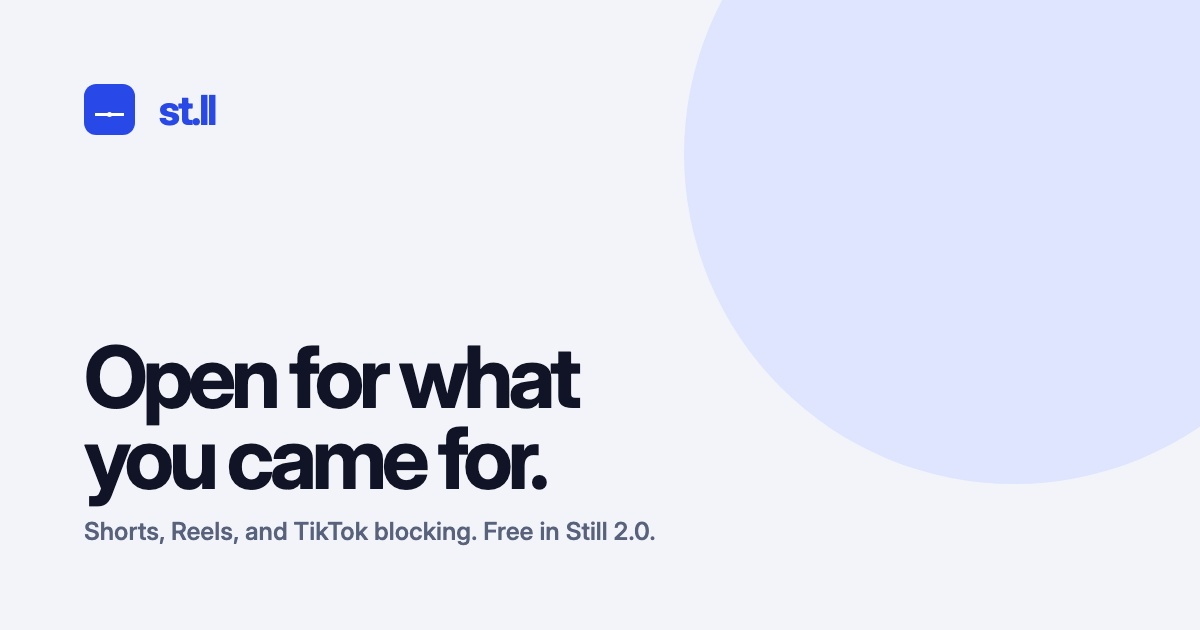
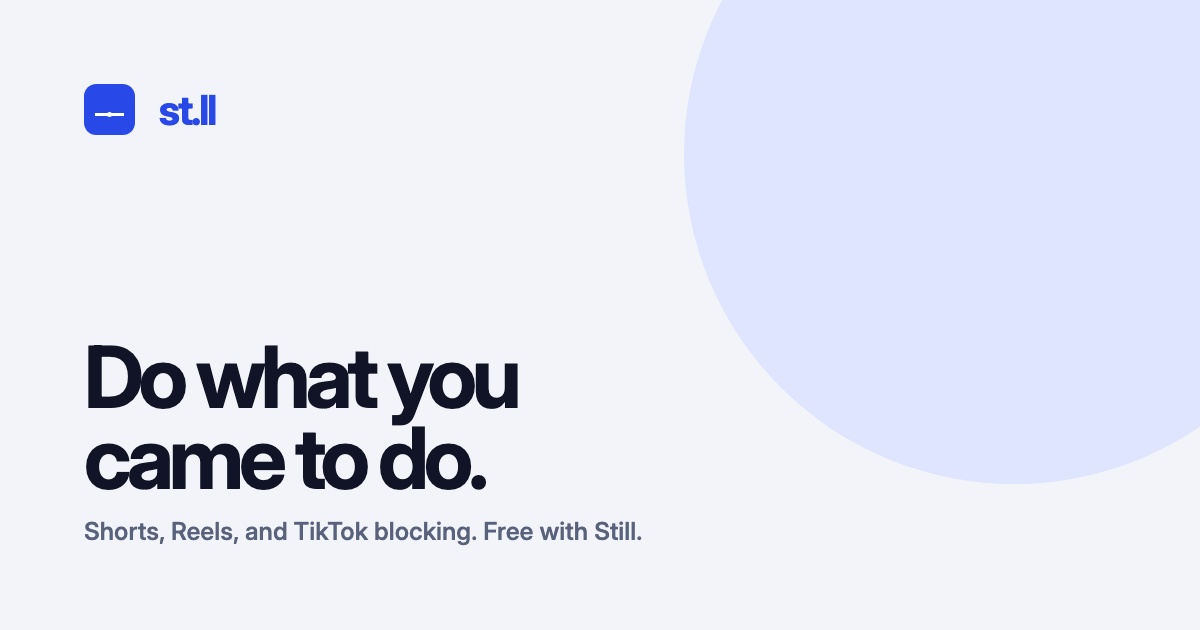
docs: simplify website branding and tighten section layout

Changed region(s): [[0.0617, 0.5429, 0.4933, 0.8143], [0.4317, 0.8143, 0.555, 0.8746]]

diff --git a/docs/assets/marketing.css b/docs/assets/marketing.css
@@ -46,7 +46,7 @@ a:focus-visible { outline: 3px solid #8fa1ff; outline-offset: 4px; }
 nav { display: flex; gap: 28px; }
 nav a { text-decoration: none; color: #464e68; font-size: 14px; font-weight: 580; }
 
-.hero { min-height: 690px; padding: 72px 0 96px; display: grid; grid-template-columns: 0.92fr 1.08fr; gap: 70px; align-items: center; }
+.hero { min-height: 560px; padding: 48px 0 56px; display: grid; grid-template-columns: 0.92fr 1.08fr; gap: 70px; align-items: center; }
 .eyebrow { margin: 0 0 14px; color: var(--blue); font-size: 13px; font-weight: 760; letter-spacing: .11em; text-transform: uppercase; }
 h1, h2, h3, p { text-wrap: pretty; }
 h1 { margin: 0; font-size: clamp(54px, 6vw, 84px); line-height: .98; letter-spacing: -.065em; font-weight: 730; }
@@ -70,14 +70,15 @@ h2 { max-width: 790px; margin: 0; font-size: clamp(38px, 4vw, 58px); line-height
 .sound-toggle:not(.is-muted) .icon-muted { display: none; }
 .sound-toggle:not(.is-muted) .icon-unmuted { display: block; }
 
-.outcome-section, .pricing-section, .compatibility-section { padding: 110px 0; }
+.outcome-section, .pricing-section, .compatibility-section { padding: 64px 0; }
+.outcome-section > h2 { max-width: none; }
 .outcome-grid { margin-top: 58px; display: grid; grid-template-columns: repeat(3, 1fr); gap: 18px; }
 .outcome-grid article { min-height: 240px; padding: 28px; border: 1px solid var(--line); border-radius: 18px; background: white; }
 .outcome-grid article > span { color: var(--blue); font-size: 12px; font-weight: 750; letter-spacing: .09em; }
 .outcome-grid h3 { margin: 62px 0 9px; font-size: 21px; letter-spacing: -.025em; }
 .outcome-grid p { margin: 0; color: var(--muted); }
 
-.split-section { padding: 112px max(32px, calc((100% - 1160px) / 2)); display: grid; grid-template-columns: 1fr 1fr; gap: 90px; align-items: start; background: #11172b; color: white; }
+.split-section { padding: 64px max(32px, calc((100% - 1160px) / 2)); display: grid; grid-template-columns: 1fr 1fr; gap: 90px; align-items: start; background: #11172b; color: white; }
 .split-section h2 { font-size: clamp(40px, 4vw, 60px); }
 .split-section > div > p:not(.eyebrow) { color: #c0c6d8; font-size: 18px; line-height: 1.7; }
 .service-list { margin: 0; padding: 0; list-style: none; border-top: 1px solid #30374f; }
@@ -112,7 +113,8 @@ h2 { max-width: 790px; margin: 0; font-size: clamp(38px, 4vw, 58px); line-height
 .scope-notice { grid-column: 1 / -1; padding: 22px 26px; border-left: 4px solid var(--blue); background: var(--soft-blue); }
 .scope-notice p { margin: 5px 0 0; color: #4e5875; }
 
-.get-still-section { padding: 110px 0; text-align: center; }
+.get-still-section { padding: 64px 0; text-align: center; }
+.get-still-section > h2 { margin-inline: auto; }
 .get-still-lede { max-width: 640px; margin: 18px auto 40px; color: var(--muted); font-size: 18px; line-height: 1.6; }
 .store-grid { display: grid; grid-template-columns: repeat(3, minmax(0, 1fr)); gap: 16px; max-width: 760px; margin: 0 auto; }
 .store-btn { display: flex; flex-direction: column; align-items: center; justify-content: center; gap: 6px; min-height: 104px; padding: 22px; border: 1px solid var(--line); border-radius: 16px; background: white; text-decoration: none; color: var(--ink); transition: transform .18s ease, box-shadow .18s ease, border-color .18s ease; }
@@ -125,7 +127,7 @@ h2 { max-width: 790px; margin: 0; font-size: clamp(38px, 4vw, 58px); line-height
 .privacy-section .eyebrow { color: #cad2ff; }
 .privacy-section > div > p:not(.eyebrow) { color: #eef0ff; }
 .text-link { color: white; font-weight: 680; }
-.final-cta { padding: 140px 0; text-align: center; }
+.final-cta { padding: 72px 0; text-align: center; }
 .final-cta h2, .final-cta > p { margin-inline: auto; }
 .final-cta > p:not(.eyebrow) { margin-bottom: 30px; color: var(--muted); font-size: 18px; }
 footer { min-height: 100px; padding: 28px max(20px, calc((100% - 1160px) / 2)); display: flex; align-items: center; justify-content: space-between; gap: 24px; border-top: 1px solid var(--line); color: var(--muted); font-size: 13px; }
@@ -133,10 +135,10 @@ footer div { display: flex; flex-wrap: wrap; gap: 22px; }
 
 @media (max-width: 820px) {
   nav { display: none; }
-  .hero { grid-template-columns: 1fr; padding-top: 54px; gap: 54px; }
+  .hero { grid-template-columns: 1fr; padding-top: 40px; gap: 54px; }
   .hero-media { transform: none; }
   .outcome-grid, .pricing-grid, .compatibility-section, .split-section { grid-template-columns: 1fr; }
-  .split-section { padding: 90px 24px; gap: 54px; }
+  .split-section { padding: 48px 24px; gap: 54px; }
   .compatibility-section { gap: 40px; }
   .compat-row { grid-template-columns: 1fr auto; }
   .compat-row span { grid-row: 2; }
@@ -147,10 +149,10 @@ footer div { display: flex; flex-wrap: wrap; gap: 22px; }
 @media (max-width: 520px) {
   .section-shell, .site-header { width: min(100% - 28px, 1160px); }
   h1 { font-size: 52px; }
-  .hero { min-height: 0; padding-bottom: 70px; }
+  .hero { min-height: 0; padding-bottom: 44px; }
   .hero-actions, .hero-actions .button { width: 100%; }
   .store-grid { grid-template-columns: 1fr; }
-  .outcome-section, .pricing-section, .compatibility-section { padding: 80px 0; }
+  .outcome-section, .pricing-section, .compatibility-section { padding: 48px 0; }
   .outcome-grid { grid-template-columns: 1fr; }
   .pricing-grid { grid-template-columns: 1fr; }
 }

diff --git a/docs/index.html b/docs/index.html
@@ -4,10 +4,10 @@
   <meta charset="utf-8">
   <meta name="viewport" content="width=device-width, initial-scale=1">
   <title>Still — Block Shorts &amp; Reels in Safari, Chrome &amp; Firefox</title>
-  <meta name="description" content="Still 2.0 is free on desktop Firefox: remove Shorts and Reels, block the TikTok website, and optionally sync settings. Apple and Chrome updates are pending.">
+  <meta name="description" content="Remove Shorts and Reels, block the TikTok website, and optionally sync settings with Still across Safari, Chrome, and Firefox. The free update is rolling out across stores.">
   <meta name="theme-color" content="#2948e8">
-  <meta property="og:title" content="Still — Open for what you came for">
-  <meta property="og:description" content="Still 2.0 is available for desktop Firefox with free blocking and optional settings sync. Apple and Chrome updates are pending.">
+  <meta property="og:title" content="Still — Do what you came to do">
+  <meta property="og:description" content="Free blocking and optional settings sync across Safari, Chrome, and Firefox. Still’s free update is rolling out across stores.">
   <meta property="og:type" content="website">
   <meta property="og:url" content="https://stillapp.fit/">
   <meta property="og:image" content="https://stillapp.fit/release/screenshots/v2/web/still-open-graph-v2-1200x630.jpg">
@@ -53,7 +53,7 @@
           <a class="button button-secondary" href="https://addons.mozilla.org/en-US/firefox/addon/still-free-yourself/">Firefox</a>
         </div>
         <p class="price-line">Still is free to use. Sign in to sync your blocking settings across Safari, Chrome, and Firefox on desktop and iOS.</p>
-        <p class="price-line"><strong>Firefox 2.0 is available.</strong> Apple and Chrome 2.0 are awaiting store approval; their links currently offer the earlier release. On iOS, Still works in Safari.</p>
+        <p class="price-line">The free update is rolling out across stores. Some listings may still show an earlier release. On iOS, Still works in Safari.</p>
       </div>
 
       <figure class="hero-media">
@@ -87,8 +87,8 @@
     </section>
 
     <section id="included" class="pricing-section section-shell" aria-labelledby="included-title">
-      <p class="eyebrow">Included in Still 2.0</p>
-      <h2 id="included-title">All the blocking. None of the price.</h2>
+      <p class="eyebrow">Included in Still</p>
+      <h2 id="included-title">All of the blocking. None of the cost</h2>
       <div class="pricing-grid">
         <article class="price-card">
           <p class="plan-name">Free blocking</p>
@@ -107,7 +107,7 @@
 
     <section id="where-it-works" class="compatibility-section section-shell" aria-labelledby="compatibility-title">
       <div class="compatibility-heading">
-        <p class="eyebrow">Still 2.0: free on every supported surface.</p>
+        <p class="eyebrow">Still: free on every supported surface.</p>
         <h2 id="compatibility-title">Your quieter web follows you.</h2>
         <p>Use Still without an account. If you want your settings to follow you, sign in with the same email on your supported browsers and devices. Sync is free too.</p>
       </div>
@@ -126,20 +126,20 @@
     <section id="get-still" class="get-still-section section-shell" aria-labelledby="get-still-title">
       <p class="eyebrow">Get Still</p>
       <h2 id="get-still-title">Add Still to the browser you use.</h2>
-      <p id="release-status" class="store-note"><strong>Firefox 2.0 is available.</strong> The Apple and Chrome updates are still awaiting store release. Their links may offer an earlier version; the free blocking and sync described here apply to 2.0.</p>
-      <p class="get-still-lede">Still 2.0 removes YouTube Shorts, Instagram and Facebook Reels, and blocks the TikTok website. All included, with no purchase needed.</p>
+      <p id="release-status" class="store-note">Still supports Safari, Chrome, and Firefox. The free update is rolling out across stores; some listings may still show an earlier release.</p>
+      <p class="get-still-lede">Still removes YouTube Shorts, Instagram and Facebook Reels, and blocks the TikTok website. All included, with no purchase needed.</p>
       <div class="store-grid">
         <a class="store-btn" href="https://apps.apple.com/app/id6784061138">
           <span class="store-name">App Store</span>
-          <span class="store-surface">iPhone, iPad &amp; Mac — Safari · 2.0 pending</span>
+          <span class="store-surface">iPhone, iPad &amp; Mac — Safari</span>
         </a>
         <a class="store-btn" href="https://chromewebstore.google.com/detail/still-block-shorts-reels/midpefhbieafmeboompbboemeahjjnkf">
           <span class="store-name">Chrome</span>
-          <span class="store-surface">Desktop · 2.0 pending</span>
+          <span class="store-surface">Desktop</span>
         </a>
         <a class="store-btn" href="https://addons.mozilla.org/en-US/firefox/addon/still-free-yourself/">
           <span class="store-name">Firefox</span>
-          <span class="store-surface">Desktop · 2.0 available</span>
+          <span class="store-surface">Desktop</span>
         </a>
       </div>
       <p class="store-note">No purchase or account needed for blocking. Sign-in is optional and enables free settings sync.</p>

diff --git a/docs/short-form-video-blocker.html b/docs/short-form-video-blocker.html
@@ -4,7 +4,7 @@
   <meta charset="utf-8">
   <meta name="viewport" content="width=device-width, initial-scale=1">
   <title>A Short-Form Video Blocker for Safari, Chrome &amp; Firefox | Still</title>
-  <meta name="description" content="Still 2.0 is free on desktop Firefox: remove Shorts and Reels and block the TikTok website. Optional free sync. Apple and Chrome updates are pending.">
+  <meta name="description" content="Remove Shorts and Reels and block the TikTok website with Still for Safari, Chrome, and Firefox. Free blocking and optional free sync are rolling out across stores.">
   <meta name="theme-color" content="#2948e8">
   <link rel="canonical" href="https://stillapp.fit/short-form-video-blocker.html">
   <link rel="stylesheet" href="./assets/legal.css">
@@ -12,7 +12,7 @@
 <body>
   <p><a href="./guides.html">← All Still guides</a></p>
   <h1>A short-form video blocker for Safari, Chrome, and Firefox</h1>
-  <p class="lede"><strong>Still 2.0 is available for desktop Firefox.</strong> Apple and Chrome updates are pending. This page describes 2.0; <a href="/#release-status">check release availability</a>.</p>
+  <p class="lede"><strong>Still supports Safari, Chrome, and Firefox.</strong> The free update is rolling out across stores; some listings may still show an earlier release. <a href="/#release-status">Check release availability</a>.</p>
   <p class="lede">Still keeps the useful parts of the websites you opened while removing the short-form routes that turn a quick visit into a long scroll.</p>
 
   <h2>Where Still works</h2>
@@ -20,13 +20,13 @@
     <thead><tr><th>Device</th><th>Supported browser</th><th>Important limit</th></tr></thead>
     <tbody>
       <tr><td>iPhone and iPad</td><td>Safari</td><td>Works on websites opened in Safari, not native apps.</td></tr>
-      <tr><td>Mac</td><td>Safari, Chrome, Firefox</td><td>Supported surfaces for Still 2.0.</td></tr>
+      <tr><td>Mac</td><td>Safari, Chrome, Firefox</td><td>Supported surfaces for Still.</td></tr>
       <tr><td>Desktop</td><td>Chrome, Firefox</td><td>Chrome on mobile does not support browser extensions.</td></tr>
     </tbody>
   </table>
 
   <h2>Start free</h2>
-  <p>Still 2.0 removes YouTube Shorts, Instagram and Facebook Reels, and blocks the TikTok website for free. No account or purchase is needed. Optional sign-in enables free settings sync across supported surfaces.</p>
+  <p>Still removes YouTube Shorts, Instagram and Facebook Reels, and blocks the TikTok website for free. No account or purchase is needed. Optional sign-in enables free settings sync across supported surfaces.</p>
   <p>Get Still for <a href="https://apps.apple.com/app/id6784061138">Safari (iPhone, iPad, Mac)</a>, <a href="https://chromewebstore.google.com/detail/still-block-shorts-reels/midpefhbieafmeboompbboemeahjjnkf">Chrome</a>, or <a href="https://addons.mozilla.org/en-US/firefox/addon/still-free-yourself/">Firefox</a>.</p>
 
   <h2>Optional settings sync</h2>

diff --git a/docs/support.html b/docs/support.html
@@ -4,14 +4,14 @@
 <meta charset="utf-8">
 <meta name="viewport" content="width=device-width, initial-scale=1">
 <title>Still Support — Setup, settings sync &amp; help</title>
-<meta name="description" content="Get help with free Still 2.0 on desktop Firefox, optional settings sync, and earlier purchases. Apple and Chrome 2.0 updates are pending.">
+<meta name="description" content="Get help with Still for Safari, Chrome, and Firefox, free blocking, optional settings sync, and earlier purchases. The free update is rolling out across stores.">
 <meta name="theme-color" content="#2948e8">
 <link rel="canonical" href="https://stillapp.fit/support/">
 <link rel="stylesheet" href="/assets/legal.css">
 </head>
 <body>
   <h1>Still — Support</h1>
-  <p class="lede"><strong>Still 2.0 is available for desktop Firefox.</strong> Apple and Chrome updates are pending. This page describes 2.0; <a href="/#release-status">check release availability</a>.</p>
+  <p class="lede"><strong>Still supports Safari, Chrome, and Firefox.</strong> The free update is rolling out across stores; some listings may still show an earlier release. <a href="/#release-status">Check release availability</a>.</p>
 
   <p>Still removes short-form video — YouTube Shorts, Instagram Reels, TikTok, and Facebook Reels —
   from supported websites in Safari on iPhone, iPad, and Mac and in Chrome or Firefox on desktop,
@@ -50,7 +50,7 @@
   </ul>
 
   <h3>Is Still free?</h3>
-  <p>Yes. Still 2.0 includes YouTube Shorts removal, Instagram and Facebook Reels removal, and the
+  <p>Yes. Still includes YouTube Shorts removal, Instagram and Facebook Reels removal, and the
   TikTok website block for free. No purchase or account is needed. Sign-in is optional and enables
   free cross-device settings sync.</p>
 
@@ -61,7 +61,7 @@
   browser extensions.</p>
 
   <h3>I bought Still Pro in an earlier version. What should I do?</h3>
-  <p>Update when Still 2.0 becomes available for your browser or device. In 2.0, all blocking features and optional settings sync are free, so you do
+  <p>Install the free update when it becomes available for your browser or device. With the free update, all blocking features and optional settings sync are free, so you do
   not need to restore a purchase to use them. For help with an earlier receipt or refund, see below.</p>
 
   <h3>How do I delete my account and data?</h3>
@@ -79,7 +79,7 @@
   sync to finish before checking the other device. If it still doesn't work, <a href="mailto:support@stillapp.fit">contact us</a>.</p>
 
   <h2>Earlier purchases and refunds</h2>
-  <p>Still 2.0 is free. There is no subscription or purchase needed. These refund instructions apply
+  <p>Still is free. There is no subscription or purchase needed. These refund instructions apply
   to Still Pro purchases made in earlier versions:</p>
   <ul>
     <li><strong>Apple purchases:</strong> request a refund at

diff --git a/docs/remove-instagram-reels-safari.html b/docs/remove-instagram-reels-safari.html
@@ -4,7 +4,7 @@
   <meta charset="utf-8">
   <meta name="viewport" content="width=device-width, initial-scale=1">
   <title>Remove Instagram Reels in Safari on iPhone, iPad &amp; Mac | Still</title>
-  <meta name="description" content="Coming in Still 2.0 for Safari: remove Instagram Reels while keeping regular posts and messages. The Apple update is awaiting store release.">
+  <meta name="description" content="Remove Instagram Reels in Safari while keeping regular posts and messages. Still supports Safari, Chrome, and Firefox; the free update is rolling out across stores.">
   <meta name="theme-color" content="#2948e8">
   <link rel="canonical" href="https://stillapp.fit/remove-instagram-reels-safari.html">
   <link rel="stylesheet" href="./assets/legal.css">
@@ -12,8 +12,8 @@
 <body>
   <p><a href="./guides.html">← All Still guides</a></p>
   <h1>How to remove Instagram Reels in Safari</h1>
-  <p class="lede"><strong>Still 2.0 is available for desktop Firefox.</strong> Apple and Chrome updates are pending. This page describes 2.0; <a href="/#release-status">check release availability</a>.</p>
-  <p class="lede">Still 2.0 removes Reels from <strong>instagram.com</strong> in Safari while leaving normal posts, messages, and pages available.</p>
+  <p class="lede"><strong>Still supports Safari, Chrome, and Firefox.</strong> The free update is rolling out across stores; some listings may still show an earlier release. <a href="/#release-status">Check release availability</a>.</p>
+  <p class="lede">Still removes Reels from <strong>instagram.com</strong> in Safari while leaving normal posts, messages, and pages available.</p>
 
   <h2>Important: this is for Safari, not the Instagram app</h2>
   <p>On iPhone and iPad, Safari extensions can change websites you open in Safari. They cannot change the native Instagram app. To use Still on mobile, open instagram.com in Safari; the same boundary applies to the YouTube, Facebook, and TikTok apps.</p>
@@ -27,7 +27,7 @@
   </ol>
 
   <h2>Free without an account</h2>
-  <p>Still 2.0 removes YouTube Shorts, Instagram and Facebook Reels, and blocks the TikTok website for free. No account or purchase is needed. Optional sign-in enables free settings sync across supported surfaces.</p>
+  <p>Still removes YouTube Shorts, Instagram and Facebook Reels, and blocks the TikTok website for free. No account or purchase is needed. Optional sign-in enables free settings sync across supported surfaces.</p>
 
   <h2>If Reels are still visible</h2>
   <ul>

diff --git a/docs/terms.html b/docs/terms.html
@@ -23,21 +23,21 @@
 <div class="wrap">
   <nav class="top"><a href="../">‹ st<span style="color:#3457d5">·</span>ll</a></nav>
   <h1>Terms &amp; Conditions</h1>
-  <p class="lede"><strong>Still 2.0 is available for desktop Firefox.</strong> Apple and Chrome updates are pending. This page describes 2.0; <a href="/#release-status">check release availability</a>.</p>
+  <p class="lede"><strong>Still supports Safari, Chrome, and Firefox.</strong> The free update is rolling out across stores; some listings may still show an earlier release. <a href="/#release-status">Check release availability</a>.</p>
   <p class="eff">Effective September 11, 2026 · Cadmus Labs LLC</p>
 
   <p>These Terms govern your use of Still, provided by <strong>Cadmus Labs LLC</strong> ("we", "us"). By installing or using Still, you agree to these Terms. If you do not agree, do not use Still.</p>
 
   <h2>1. The service</h2>
-  <p>Still is a browser extension and app that removes short-form video surfaces on supported websites. Still 2.0 removes YouTube Shorts and Instagram and Facebook Reels, and blocks the TikTok website, for free. On iPhone and iPad it works in Safari websites, not native social-media apps.</p>
+  <p>Still is a browser extension and app that removes short-form video surfaces on supported websites. Still removes YouTube Shorts and Instagram and Facebook Reels, and blocks the TikTok website, for free. On iPhone and iPad it works in Safari websites, not native social-media apps.</p>
 
   <h2>2. Accounts</h2>
   <p>No account is needed for blocking. An optional Still account using passwordless email sign-in enables free cross-device settings sync. You are responsible for the email account you use to sign in and for activity under your account. Tell us promptly of any unauthorized use.</p>
 
   <h2>3. Pricing and earlier purchases</h2>
-  <p>Still 2.0 is free to use. No subscription or purchase is needed for blocking or optional settings
+  <p>Still is free to use. No subscription or purchase is needed for blocking or optional settings
   sync. Earlier versions offered a one-time Still Pro purchase through Apple In-App Purchase or
-  Stripe via RevenueCat. You do not need to restore an earlier purchase to use Still 2.0.</p>
+  Stripe via RevenueCat. You do not need to restore an earlier purchase to use Still.</p>
 
   <h2>4. Refunds for earlier purchases</h2>
   <ul>

diff --git a/docs/setup.html b/docs/setup.html
@@ -4,7 +4,7 @@
 <meta charset="utf-8">
 <meta name="viewport" content="width=device-width, initial-scale=1">
 <title>Set up Still — Instructions by device and browser</title>
-<meta name="description" content="Set up Still 2.0 on desktop Firefox. Safari and Chrome 2.0 updates are pending; their setup steps are ready for release.">
+<meta name="description" content="Set up Still in Safari, Chrome, and Firefox. The free update is rolling out across stores; some listings may still show an earlier release.">
 <meta name="theme-color" content="#2a47e8">
 <link rel="canonical" href="https://stillapp.fit/setup/">
 <link rel="stylesheet" href="/assets/legal.css">
@@ -26,7 +26,7 @@
   <a href="https://stillapp.fit/" aria-label="Still home">Still</a>
   <h1 class="guide-title"><img src="/assets/still-logo.png" width="56" height="56" alt="">Set up Still</h1>
   <p class="lede">Choose your device and browser, then follow the steps below.</p>
-  <p class="note">This guide covers <strong>Still 2.0</strong>. Still 2.0 is available for desktop Firefox. Apple and Chrome updates are pending; <a href="/#release-status">check release availability</a>. In 2.0, all four website controls work without an account; signing in adds settings sync. Browser permissions must still be enabled on each device.</p>
+  <p class="note">This guide covers the free update to <strong>Still</strong> for Safari, Chrome, and Firefox. The free update is rolling out across stores; some listings may still show an earlier release. <a href="/#release-status">Check release availability</a>. With the free update, all four website controls work without an account; signing in adds settings sync. Browser permissions must still be enabled on each device.</p>
 </header>
 <main>
 <nav aria-label="Choose your device and browser">

diff --git a/docs/guides.html b/docs/guides.html
@@ -12,7 +12,7 @@
 <body>
   <p><a href="./">← Still home</a></p>
   <h1>Guides for a quieter web</h1>
-  <p class="lede"><strong>Still 2.0 is available for desktop Firefox.</strong> Apple and Chrome updates are pending. This page describes 2.0; <a href="/#release-status">check release availability</a>.</p>
+  <p class="lede"><strong>Still supports Safari, Chrome, and Firefox.</strong> The free update is rolling out across stores; some listings may still show an earlier release. <a href="/#release-status">Check release availability</a>.</p>
   <p class="lede">Practical setup help, clear compatibility information, and no promises about places Still cannot work.</p>
 
   <h2>Start here</h2>
@@ -23,7 +23,7 @@
     <li><a href="./browser-extensions-native-iphone-apps.html">Why browser extensions cannot block native iPhone apps</a></li>
   </ul>
 
-  <p>Still 2.0 removes YouTube Shorts, Instagram and Facebook Reels, and blocks the TikTok website for free. No account or purchase is needed. Optional sign-in enables free settings sync across supported surfaces. <a href="./support.html">Get setup and sync help.</a></p>
+  <p>Still removes YouTube Shorts, Instagram and Facebook Reels, and blocks the TikTok website for free. No account or purchase is needed. Optional sign-in enables free settings sync across supported surfaces. <a href="./support.html">Get setup and sync help.</a></p>
 
   <p class="footer">© 2026 Cadmus Labs LLC · <a href="./privacy.html">Privacy</a> · <a href="./terms/">Terms</a> · <a href="./support.html">Support</a></p>
 </body>

diff --git a/docs/block-youtube-shorts.html b/docs/block-youtube-shorts.html
@@ -25,7 +25,7 @@
 <body>
   <p><a href="./guides.html">← All Still guides</a></p>
   <h1>How to block YouTube Shorts without blocking YouTube</h1>
-  <p class="lede"><strong>Still 2.0 is available for desktop Firefox.</strong> Apple and Chrome updates are pending. This page describes 2.0; <a href="/#release-status">check release availability</a>.</p>
+  <p class="lede"><strong>Still supports Safari, Chrome, and Firefox.</strong> The free update is rolling out across stores; some listings may still show an earlier release. <a href="/#release-status">Check release availability</a>.</p>
   <p class="lede">You can keep normal videos, subscriptions, search, and the rest of YouTube without leaving the Shorts feed available as an easy detour.</p>
 
   <h2>What Still changes</h2>
@@ -48,7 +48,7 @@
   </ul>
 
   <h2>Other included websites</h2>
-  <p>Still 2.0 removes YouTube Shorts, Instagram and Facebook Reels, and blocks the TikTok website for free. No account or purchase is needed. Optional sign-in enables free settings sync across supported surfaces. <a href="./support.html">See setup and sync help.</a></p>
+  <p>Still removes YouTube Shorts, Instagram and Facebook Reels, and blocks the TikTok website for free. No account or purchase is needed. Optional sign-in enables free settings sync across supported surfaces. <a href="./support.html">See setup and sync help.</a></p>
 
   <p class="footer">© 2026 Cadmus Labs LLC · <a href="./">Still home</a> · <a href="./privacy.html">Privacy</a> · <a href="./support.html">Support</a></p>
 </body>

diff --git a/docs/privacy.html b/docs/privacy.html
@@ -14,10 +14,10 @@
   <p class="updated">Last updated: September 11, 2026</p>
   <p>Still is made by Cadmus Labs LLC. This policy covers our apps, browser extensions, website
   and support service.</p>
-  <p>Still 2.0 removes YouTube Shorts and Instagram/Facebook Reels and blocks the TikTok website
+  <p>Still removes YouTube Shorts and Instagram/Facebook Reels and blocks the TikTok website
   for free on supported web surfaces. Blocking needs no account or purchase. Optional sign-in enables
   free settings sync. On iPhone and iPad, Still works in Safari websites, not native social-media apps.
-  See <a href="/#release-status">2.0 release availability</a> before installing.</p>
+  See <a href="/#release-status">free update availability</a> before installing.</p>
 
   <h2>Browsing and local settings</h2>
   <p>Still does not collect your browsing history or the content of pages you visit. Access to the
@@ -42,7 +42,7 @@
     app-user ID. Signing in associates RevenueCat with your Still account ID, which can be linked to
     your account. RevenueCat also records connections and customer country information and provides
     purchase analytics. Apple holds underlying App Store purchase records. No purchase is needed
-    for Still 2.0.</li>
+    for Still.</li>
     <li><strong>Support correspondence:</strong> our support, privacy and general-contact addresses
     forward to a Google Workspace mailbox. We receive your address, message and any attachments
     so we can respond.</li>

diff --git a/docs/browser-extensions-native-iphone-apps.html b/docs/browser-extensions-native-iphone-apps.html
@@ -12,7 +12,7 @@
 <body>
   <p><a href="./guides.html">← All Still guides</a></p>
   <h1>Why browser extensions cannot block native iPhone apps</h1>
-  <p class="lede"><strong>Still 2.0 is available for desktop Firefox.</strong> Apple and Chrome updates are pending. This page describes 2.0; <a href="/#release-status">check release availability</a>.</p>
+  <p class="lede"><strong>Still supports Safari, Chrome, and Firefox.</strong> The free update is rolling out across stores; some listings may still show an earlier release. <a href="/#release-status">Check release availability</a>.</p>
   <p class="lede">A Safari extension can change a website you open in Safari. It cannot change the separate YouTube, Instagram, Facebook, or TikTok app installed on your iPhone or iPad.</p>
 
   <h2>Why this matters</h2>

diff --git a/docs/release/screenshots/source/promo.html b/docs/release/screenshots/source/promo.html
@@ -44,7 +44,7 @@
   <main>
     <div class="brand"><span class="mark"><i></i></span><span>st.ll</span></div>
     <div class="screens" aria-hidden="true"><i class="screen wide"><b></b><b></b><b></b></i><i class="screen mid"><b></b><b></b><b></b></i><i class="screen slim"><b></b><b></b><b></b></i></div>
-    <div class="copy"><h1>Open for what you came for.</h1><p>Shorts, Reels, and TikTok blocking. Free in Still 2.0.</p></div>
+    <div class="copy"><h1>Do what you came to do.</h1><p>Shorts, Reels, and TikTok blocking. Free with Still.</p></div>
   </main>
   <script>
     const type = new URLSearchParams(location.search).get("type") || "promo";
